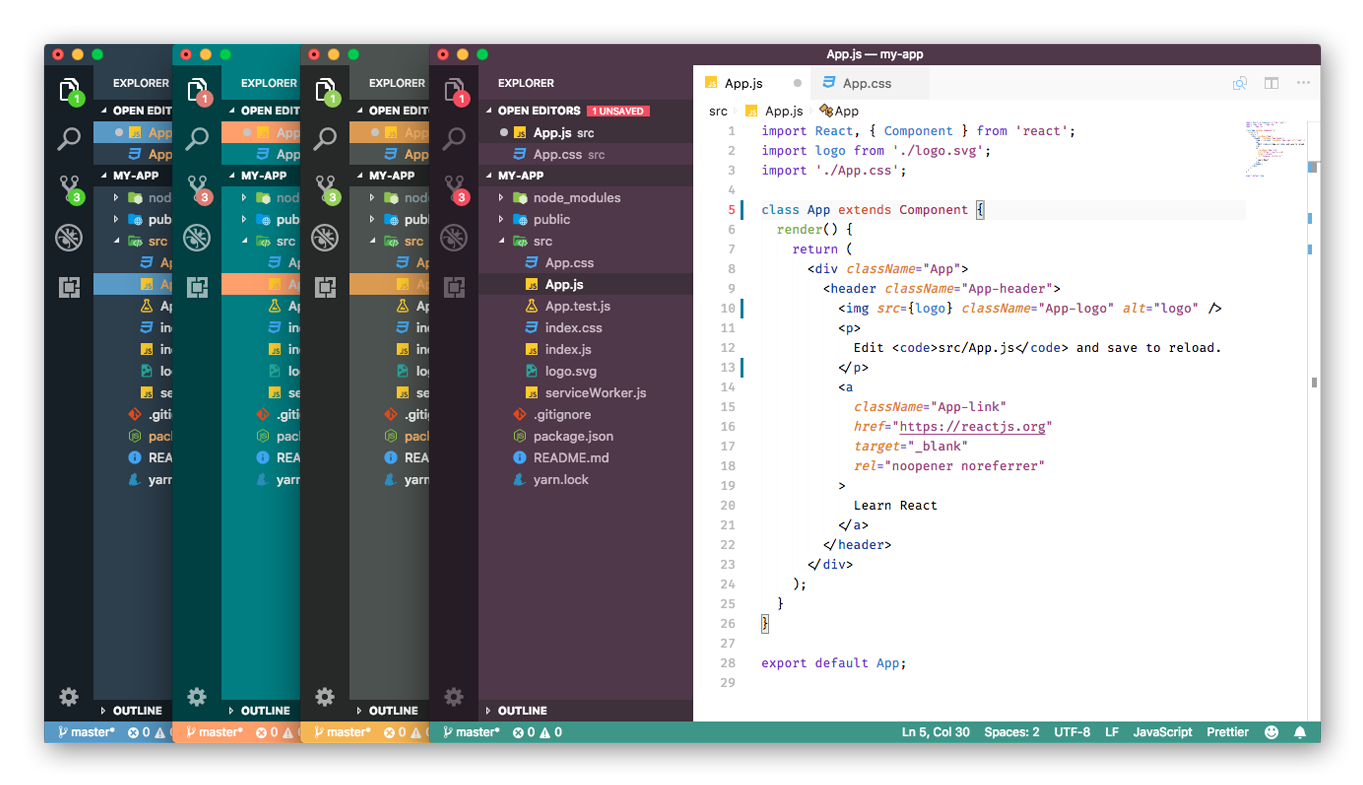
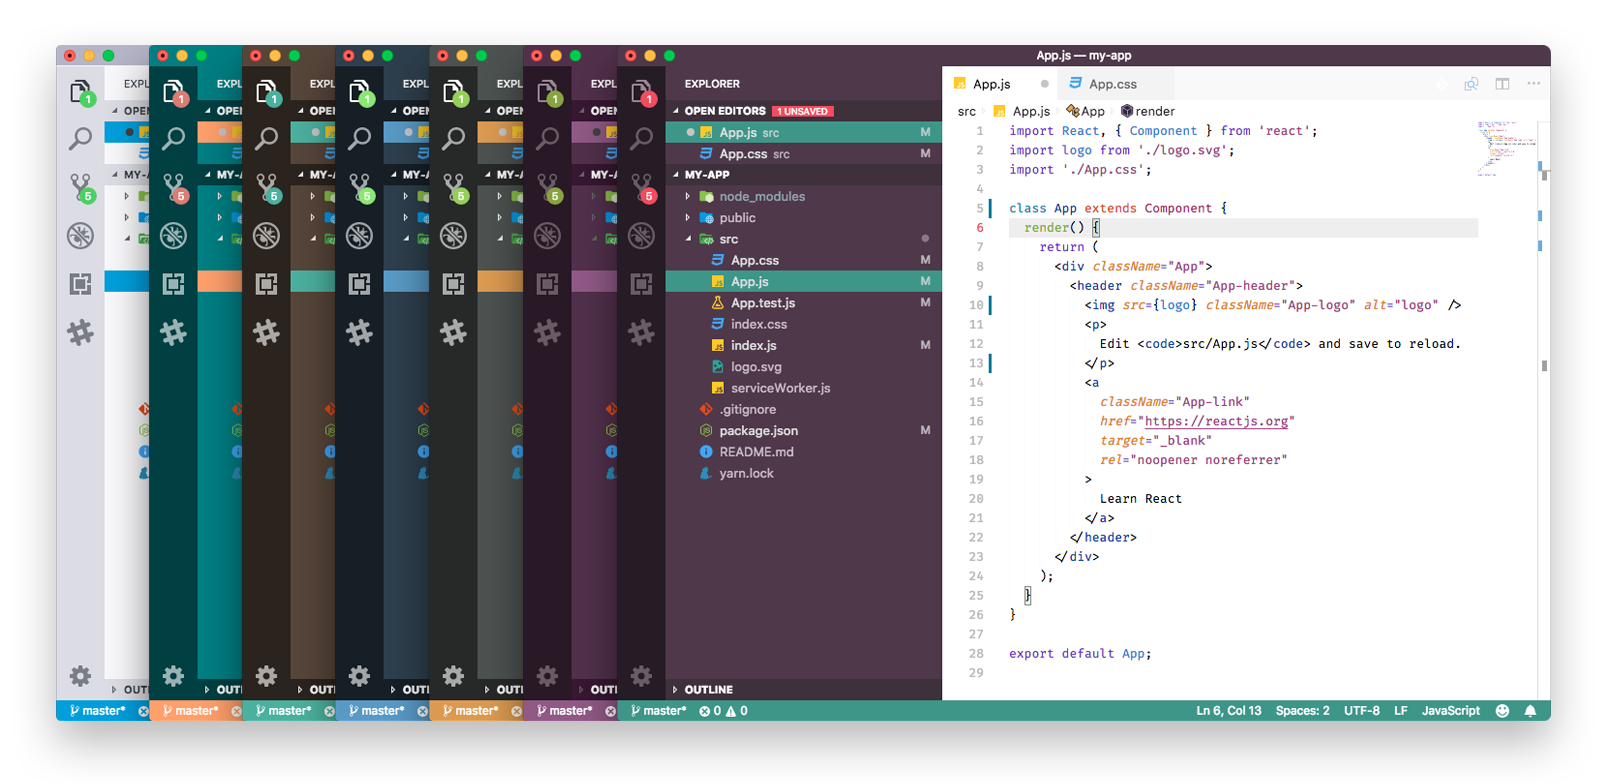
Update REAMD.md

diff --git a/README.md b/README.md
@@ -5,9 +5,13 @@
 ![Ratting](https://vsmarketplacebadge.apphb.com/rating-short/felipe-mendes.slack-theme.svg)
 [![License: MIT](https://img.shields.io/badge/License-MIT-yellow.svg)](https://opensource.org/licenses/MIT)
 
->Color scheme inspired by the [Slack](https://slack.com) default themes.
+Color scheme inspired by the [Slack](https://slack.com) default themes.
 
 ![](https://raw.githubusercontent.com/slack-theme/visual-studio-code/master/assets/screenshot.png)
+
+And also a imagined dark version of Aubergine :sunglasses:
+
+![](https://raw.githubusercontent.com/slack-theme/visual-studio-code/master/assets/screenshot-dark.png)
 
 ## Install
 
@@ -21,17 +25,20 @@ This extension is available in the [Visual Studio Code Marketplace](https://mark
 
 Have you identified any bugs or improvements? Contact me or feel free to change the project at [GitHub](https://github.com/felipemendes/slack-theme).
 
+## Contribute
+Head over to the [GitHub](https://github.com/felipemendes/slack-theme) to contribute.
+
 ## Customization
 
 If you are using VSCode 1.12+ versions you can customize the colors to your liking, overriding the ones provided by this theme. More info [here](https://code.visualstudio.com/docs/getstarted/theme-color-reference).
 
 ## Credits
 
-[Slack](https://github.com/slackhq)
+[Slack](https://github.com/slackhq) :heart:
 
 ## Team
 
-This theme is maintained by the following person(s) and you "send issue"
+This theme is maintained by the following person(s).
 
 
 [![felipemendes](https://avatars2.githubusercontent.com/u/3712089?s=100&v=4)](https://github.com/felipemendes) |
